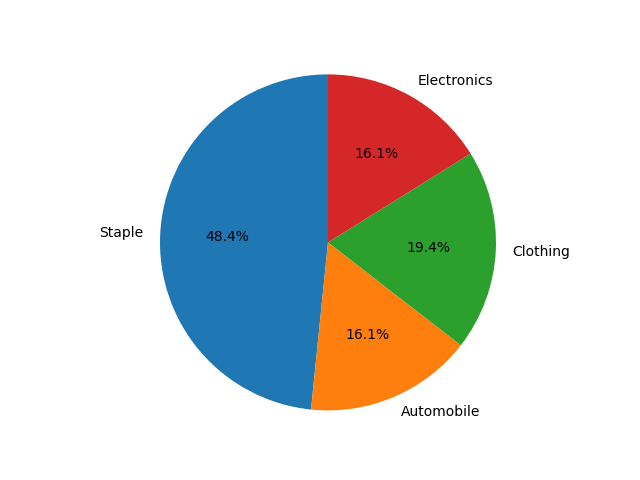
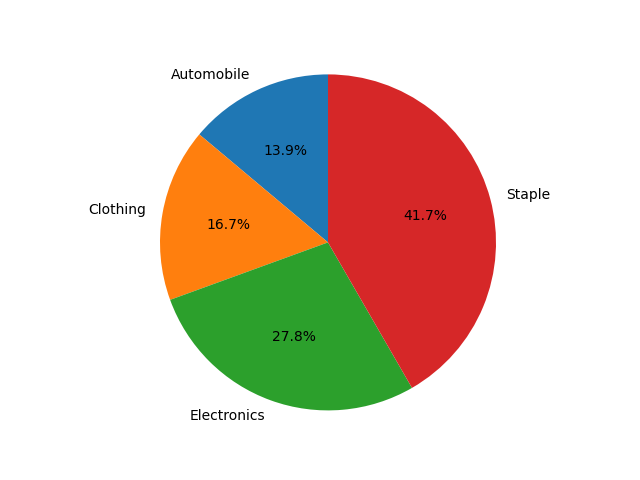
Add files via upload

diff --git a/OOAD/templates/order_details.html b/OOAD/templates/order_details.html
@@ -271,14 +271,16 @@
                         <th scope="col">Product Name</th>
                         <th scope="col">Product Type</th>
                         <th scope="col">Quantity</th>
+                        <th scope="col">Price</th>
                     </tr>
                 </thead>
                 <tbody>
                     {% for item in results %}
                     <tr>
                         <td>{{ item.product_name }}</td>
-                        <td>{{ item.product_type }}</td>
-                        <td>{{ item.quantity }}</td>
+                        <td>{{ item.category }}</td>
+                        <td>{{ item.COUNT }}</td>
+                        <td>{{ item.PRICE * item.COUNT }}</td>
                     </tr>
                     {% endfor %}
                     <tr>
@@ -319,6 +321,7 @@
                             <tr>
                                 <th>Product Name</th>
                                 <th>Total Quantity</th>
+                                <th>Total Price</th>
                                 <th>Damaged Quantity</th>
                                 <th>Damaged (%)</th>
                             </tr>
@@ -328,6 +331,7 @@
                             <tr>
                                 <td>{{ damage.product_name }}</td>
                                 <td>{{ damage.total_quantity }}</td>
+                                <td>{{ damage.total_price }}</td>
                                 <td>{{ damage.damaged_quantity }}</td>
                                 <td>{{ damage.damaged_percent }}%</td>
                             </tr>

diff --git a/OOAD/templates/location.html b/OOAD/templates/location.html
@@ -138,6 +138,7 @@
                         <th>Product ID</th>
                         <th>Product Name</th>
                         <th>Total Quantity</th>
+                        <th>Total Price</th>
                         <th>From Location</th>
                         <th>To Location</th>
                         <th>Delivery Date</th>
@@ -151,6 +152,7 @@
                         <td>{{ item.PRODUCT_ID }}</td>
                         <td>{{ item.PRODUCT_NAME }}</td>
                         <td>{{ item.TOTAL_QUANTITY }}</td>
+                        <td>{{ item.COST }}</td>
                         <td>{{ item.FROM_LOCATION }}</td>
                         <td>{{ item.TO_LOCATION }}</td>
                         <td>{{ item.DELIVERY_DATE }}</td>

diff --git a/OOAD/templates/inventory.html b/OOAD/templates/inventory.html
@@ -230,7 +230,6 @@
 
                                 <div class="inventory-details">
                                     <p><strong>Delivery Date:</strong> {{ row['DELIVERY_DATE'] }}</p>
-                                    <p><strong>Mode of Transport:</strong> {{ row['MODE_OF_TRANSPORT'] }}</p>
                                     <p><strong>Total Quantity:</strong> {{ row['TOTAL_QUANTITY'] }}</p>
                                     <p><strong>Damaged Quantity:</strong> {{ row['DAMAGED_QUANTITY'] }} 
                                     <span class="badge {% if row['DAMAGED_QUANTITY'] > 0 %}badge-damaged{% else %}badge-normal{% endif %}">

diff --git a/OOAD/paa.py b/OOAD/paa.py
@@ -43,12 +43,12 @@ class Meth:
     def data(self, order_id):
         connection = mysql.connector.connect(**db_config)
         cursor = connection.cursor(dictionary=True)
-        cursor.execute("SELECT * FROM ORDER_ITEMS WHERE order_id = %s", (order_id,))
+        cursor.execute("SELECT * FROM ORDERITEMS WHERE order_id = %s", (order_id,))
         order_items = cursor.fetchall()
 
         query = """
         SELECT *
-        FROM ORDER_ITEMS oi
+        FROM ORDERITEMS oi
         JOIN PRODUCTS p ON oi.product_id = p.product_id
         WHERE oi.order_id = %s
         """
@@ -56,8 +56,8 @@ class Meth:
         results = cursor.fetchall()
 
         query = """
-        SELECT p.product_name, p.product_id, p.product_type, oi.quantity AS total_quantity
-        FROM ORDER_ITEMS oi
+        SELECT p.product_name, p.product_id, p.category, p.price, oi.count AS total_quantity
+        FROM ORDERITEMS oi
         JOIN PRODUCTS p ON oi.product_id = p.product_id
         WHERE oi.order_id = %s
         """
@@ -65,10 +65,10 @@ class Meth:
         product_data = cursor.fetchall()
 
         query = """
-        SELECT products.product_type, SUM(order_items.quantity) AS total_quantity
-        FROM order_items
-        JOIN products ON order_items.product_id = products.product_id
-        GROUP BY products.product_type;
+        SELECT products.category, SUM(orderitems.count) AS total_quantity
+        FROM orderitems
+        JOIN products ON orderitems.product_id = products.product_id
+        GROUP BY products.category;
         """
         
         cursor.execute(query)
@@ -86,13 +86,13 @@ class Meth:
         quantities = [0] * 4  # Initialize with zeros for each type
 
         for item in self.product_data:
-            if item['product_type'] == 'Electronics':
+            if item['category'] == 'Electronics':
                 quantities[0] = item['total_quantity']
-            elif item['product_type'] == 'Clothing':
+            elif item['category'] == 'Clothing':
                 quantities[1] = item['total_quantity']
-            elif item['product_type'] == 'Automobile':
+            elif item['category'] == 'Automobile':
                 quantities[2] = item['total_quantity']
-            elif item['product_type'] == 'Staple':
+            elif item['category'] == 'Staple':
                 quantities[3] = item['total_quantity']
 
         graph_url = ''
@@ -127,12 +127,14 @@ class Meth:
                     product_id = product['product_id']
                     product_name = product['product_name']
                     total_quantity = product['total_quantity']
+                    total_price = product['total_quantity'] * product['price']
                     damaged_percent = random.randint(5, 11)
                     damaged_quantity = math.ceil(total_quantity * Decimal(damaged_percent) / Decimal(100))  # Convert damaged_percent to Decimal
                     damage_data.append({
                         'product_id' : product_id,
                         'product_name': product_name,
                         'total_quantity': total_quantity,
+                        'total_price' : total_price,
                         'damaged_quantity': damaged_quantity,
                         'damaged_percent': round(damaged_percent, 2)
                     })
@@ -140,9 +142,9 @@ class Meth:
 
                 for data in damage_data:
                     cursor.execute('''
-                        INSERT INTO final_product (order_id, product_id, product_name, total_quantity, damaged_quantity, damaged_percent)
-                        VALUES (%s, %s, %s, %s, %s, %s)
-                    ''', (order_id, data['product_id'], data['product_name'], data['total_quantity'], data['damaged_quantity'], data['damaged_percent']))
+                        INSERT INTO final_product (order_id, product_id, product_name, total_quantity, total_price, damaged_quantity, damaged_percent)
+                        VALUES (%s, %s, %s, %s, %s, %s, %s)
+                    ''', (order_id, data['product_id'], data['product_name'], data['total_quantity'], data['total_price'], data['damaged_quantity'], data['damaged_percent']))
 
                 if ds < 20:
                     cursor.execute("UPDATE ORDERS SET status = %s WHERE order_id = %s", ('Approved', order_id,))
@@ -152,7 +154,7 @@ class Meth:
                     connection.commit()
         else:
             cursor.execute('''
-            SELECT order_id, product_name, total_quantity, damaged_quantity, damaged_percent
+            SELECT order_id, product_name, total_quantity, total_price, damaged_quantity, damaged_percent
             FROM final_product
             WHERE order_id = %s
         ''', (order_id,))
@@ -162,6 +164,7 @@ class Meth:
                     'order_id': row['order_id'],
                     'product_name': row['product_name'],
                     'total_quantity': row['total_quantity'],
+                    'total_price' : row['total_price'],
                     'damaged_quantity': row['damaged_quantity'],
                     'damaged_percent': row['damaged_percent']
                 })
@@ -192,10 +195,10 @@ class BaseInventory:
 class USAInventory(BaseInventory):
     def insert_order(self, order):
         query = """
-        INSERT INTO USA_INV (CUSTOMER_ID, ORDER_ID, FROM_LOCATION, TO_LOCATION, MODE_OF_TRANSPORT, ORDER_DATE, DELIVERY_DATE, PRODUCT_ID, PRODUCT_NAME, TOTAL_QUANTITY, DAMAGED_QUANTITY, COST) 
-        VALUES (%s, %s, %s, %s, %s, %s, %s, %s, %s, %s, %s, %s)
+        INSERT INTO USA_INV (CUSTOMER_ID, ORDER_ID, FROM_LOCATION, TO_LOCATION, ORDER_DATE, DELIVERY_DATE, PRODUCT_ID, PRODUCT_NAME, TOTAL_QUANTITY, DAMAGED_QUANTITY, COST) 
+        VALUES (%s, %s, %s, %s, %s, %s, %s, %s, %s, %s, %s)
         """
-        self.cursor.execute(query, (order['CUSTOMER_ID'], order['ORDER_ID'], order['FROM_LOCATION'], order['TO_LOCATION'], order['MODE_OF_TRANSPORT'], order['ORDER_DATE'], order['DELIVERY_DATE'], order['PRODUCT_ID'], order['PRODUCT_NAME'], order['TOTAL_QUANTITY'], order['DAMAGED_QUANTITY'], order['COST']))
+        self.cursor.execute(query, (order['CUSTOMER_ID'], order['ORDER_ID'], order['FROM_LOCATION'], order['TO_LOCATION'], order['ORDER_DATE'], order['DELIVERY_DATE'], order['PRODUCT_ID'], order['PRODUCT_NAME'], order['TOTAL_QUANTITY'], order['DAMAGED_QUANTITY'], order['COST']))
     def get_data(self):
         query = "SELECT DISTINCT * FROM USA_INV"
         self.cursor.execute(query)
@@ -203,10 +206,10 @@ class USAInventory(BaseInventory):
 class UKInventory(BaseInventory):
     def insert_order(self, order):
         query = """
-        INSERT INTO UK_INV (CUSTOMER_ID, ORDER_ID, FROM_LOCATION, TO_LOCATION, MODE_OF_TRANSPORT, ORDER_DATE, DELIVERY_DATE, PRODUCT_ID, PRODUCT_NAME, TOTAL_QUANTITY, DAMAGED_QUANTITY, COST) 
-        VALUES (%s, %s, %s, %s, %s, %s, %s, %s, %s, %s, %s, %s)
+        INSERT INTO UK_INV (CUSTOMER_ID, ORDER_ID, FROM_LOCATION, TO_LOCATION, ORDER_DATE, DELIVERY_DATE, PRODUCT_ID, PRODUCT_NAME, TOTAL_QUANTITY, DAMAGED_QUANTITY, COST) 
+        VALUES (%s, %s, %s, %s, %s, %s, %s, %s, %s, %s, %s)
         """
-        self.cursor.execute(query, (order['CUSTOMER_ID'], order['ORDER_ID'], order['FROM_LOCATION'], order['TO_LOCATION'], order['MODE_OF_TRANSPORT'], order['ORDER_DATE'], order['DELIVERY_DATE'], order['PRODUCT_ID'], order['PRODUCT_NAME'], order['TOTAL_QUANTITY'], order['DAMAGED_QUANTITY'], order['COST']))
+        self.cursor.execute(query, (order['CUSTOMER_ID'], order['ORDER_ID'], order['FROM_LOCATION'], order['TO_LOCATION'], order['ORDER_DATE'], order['DELIVERY_DATE'], order['PRODUCT_ID'], order['PRODUCT_NAME'], order['TOTAL_QUANTITY'], order['DAMAGED_QUANTITY'], order['COST']))
     def get_data(self):
         query = "SELECT DISTINCT * FROM UK_INV"
         self.cursor.execute(query)
@@ -214,10 +217,10 @@ class UKInventory(BaseInventory):
 class FranceInventory(BaseInventory):
     def insert_order(self, order):
         query = """
-        INSERT INTO FRANCE_INV (CUSTOMER_ID, ORDER_ID, FROM_LOCATION, TO_LOCATION, MODE_OF_TRANSPORT, ORDER_DATE, DELIVERY_DATE, PRODUCT_ID, PRODUCT_NAME, TOTAL_QUANTITY, DAMAGED_QUANTITY, COST) 
-        VALUES (%s, %s, %s, %s, %s, %s, %s, %s, %s, %s, %s, %s)
+        INSERT INTO FRANCE_INV (CUSTOMER_ID, ORDER_ID, FROM_LOCATION, TO_LOCATION, ORDER_DATE, DELIVERY_DATE, PRODUCT_ID, PRODUCT_NAME, TOTAL_QUANTITY, DAMAGED_QUANTITY, COST) 
+        VALUES (%s, %s, %s, %s, %s, %s, %s, %s, %s, %s, %s)
         """
-        self.cursor.execute(query, (order['CUSTOMER_ID'], order['ORDER_ID'], order['FROM_LOCATION'], order['TO_LOCATION'], order['MODE_OF_TRANSPORT'], order['ORDER_DATE'], order['DELIVERY_DATE'], order['PRODUCT_ID'], order['PRODUCT_NAME'], order['TOTAL_QUANTITY'], order['DAMAGED_QUANTITY'], order['COST']))
+        self.cursor.execute(query, (order['CUSTOMER_ID'], order['ORDER_ID'], order['FROM_LOCATION'], order['TO_LOCATION'], order['ORDER_DATE'], order['DELIVERY_DATE'], order['PRODUCT_ID'], order['PRODUCT_NAME'], order['TOTAL_QUANTITY'], order['DAMAGED_QUANTITY'], order['COST']))
 
     def get_data(self):
         query = "SELECT DISTINCT * FROM FRANCE_INV"
@@ -226,10 +229,10 @@ class FranceInventory(BaseInventory):
 class GermanyInventory(BaseInventory):
     def insert_order(self, order):
         query = """
-        INSERT INTO GERMANY_INV (CUSTOMER_ID, ORDER_ID, FROM_LOCATION, TO_LOCATION, MODE_OF_TRANSPORT, ORDER_DATE, DELIVERY_DATE, PRODUCT_ID, PRODUCT_NAME, TOTAL_QUANTITY, DAMAGED_QUANTITY, COST) 
-        VALUES (%s, %s, %s, %s, %s, %s, %s, %s, %s, %s, %s, %s)
+        INSERT INTO GERMANY_INV (CUSTOMER_ID, ORDER_ID, FROM_LOCATION, TO_LOCATION, ORDER_DATE, DELIVERY_DATE, PRODUCT_ID, PRODUCT_NAME, TOTAL_QUANTITY, DAMAGED_QUANTITY, COST) 
+        VALUES (%s, %s, %s, %s, %s, %s, %s, %s, %s, %s, %s)
         """
-        self.cursor.execute(query, (order['CUSTOMER_ID'], order['ORDER_ID'], order['FROM_LOCATION'], order['TO_LOCATION'], order['MODE_OF_TRANSPORT'], order['ORDER_DATE'], order['DELIVERY_DATE'], order['PRODUCT_ID'], order['PRODUCT_NAME'], order['TOTAL_QUANTITY'], order['DAMAGED_QUANTITY'], order['COST']))
+        self.cursor.execute(query, (order['CUSTOMER_ID'], order['ORDER_ID'], order['FROM_LOCATION'], order['TO_LOCATION'],  order['ORDER_DATE'], order['DELIVERY_DATE'], order['PRODUCT_ID'], order['PRODUCT_NAME'], order['TOTAL_QUANTITY'], order['DAMAGED_QUANTITY'], order['COST']))
 
     def get_data(self):
         query = "SELECT DISTINCT * FROM GERMANY_INV"
@@ -238,10 +241,10 @@ class GermanyInventory(BaseInventory):
 class RussiaInventory(BaseInventory):
     def insert_order(self, order):
         query = """
-        INSERT INTO RUSSIA_INV (CUSTOMER_ID, ORDER_ID, FROM_LOCATION, TO_LOCATION, MODE_OF_TRANSPORT, ORDER_DATE, DELIVERY_DATE, PRODUCT_ID, PRODUCT_NAME, TOTAL_QUANTITY, DAMAGED_QUANTITY, COST) 
-        VALUES (%s, %s, %s, %s, %s, %s, %s, %s, %s, %s, %s, %s)
+        INSERT INTO RUSSIA_INV (CUSTOMER_ID, ORDER_ID, FROM_LOCATION, TO_LOCATION, ORDER_DATE, DELIVERY_DATE, PRODUCT_ID, PRODUCT_NAME, TOTAL_QUANTITY, DAMAGED_QUANTITY, COST) 
+        VALUES (%s, %s, %s, %s, %s, %s, %s, %s, %s, %s, %s)
         """
-        self.cursor.execute(query, (order['CUSTOMER_ID'], order['ORDER_ID'], order['FROM_LOCATION'], order['TO_LOCATION'], order['MODE_OF_TRANSPORT'], order['ORDER_DATE'], order['DELIVERY_DATE'], order['PRODUCT_ID'], order['PRODUCT_NAME'], order['TOTAL_QUANTITY'], order['DAMAGED_QUANTITY'], order['COST']))
+        self.cursor.execute(query, (order['CUSTOMER_ID'], order['ORDER_ID'], order['FROM_LOCATION'], order['TO_LOCATION'], order['ORDER_DATE'], order['DELIVERY_DATE'], order['PRODUCT_ID'], order['PRODUCT_NAME'], order['TOTAL_QUANTITY'], order['DAMAGED_QUANTITY'], order['COST']))
 
     def get_data(self):
         query = "SELECT DISTINCT * FROM RUSSIA_INV"
@@ -250,10 +253,10 @@ class RussiaInventory(BaseInventory):
 class ChennaiInventory(BaseInventory):
     def insert_order(self, order):
         query = """
-        INSERT INTO CHENNAI_INV (CUSTOMER_ID, ORDER_ID, FROM_LOCATION, TO_LOCATION, MODE_OF_TRANSPORT, ORDER_DATE, DELIVERY_DATE, PRODUCT_ID, PRODUCT_NAME, TOTAL_QUANTITY, DAMAGED_QUANTITY, COST) 
-        VALUES (%s, %s, %s, %s, %s, %s, %s, %s, %s, %s, %s, %s)
+        INSERT INTO CHENNAI_INV (CUSTOMER_ID, ORDER_ID, FROM_LOCATION, TO_LOCATION, ORDER_DATE, DELIVERY_DATE, PRODUCT_ID, PRODUCT_NAME, TOTAL_QUANTITY, DAMAGED_QUANTITY, COST) 
+        VALUES (%s, %s, %s, %s, %s, %s, %s, %s, %s, %s, %s)
         """
-        self.cursor.execute(query, (order['CUSTOMER_ID'], order['ORDER_ID'], order['FROM_LOCATION'], order['TO_LOCATION'], order['MODE_OF_TRANSPORT'], order['ORDER_DATE'], order['DELIVERY_DATE'], order['PRODUCT_ID'], order['PRODUCT_NAME'], order['TOTAL_QUANTITY'], order['DAMAGED_QUANTITY'], order['COST']))
+        self.cursor.execute(query, (order['CUSTOMER_ID'], order['ORDER_ID'], order['FROM_LOCATION'], order['TO_LOCATION'], order['ORDER_DATE'], order['DELIVERY_DATE'], order['PRODUCT_ID'], order['PRODUCT_NAME'], order['TOTAL_QUANTITY'], order['DAMAGED_QUANTITY'], order['COST']))
 
     def get_data(self):
         query = "SELECT DISTINCT * FROM CHENNAI_INV"
@@ -262,10 +265,10 @@ class ChennaiInventory(BaseInventory):
 class MumbaiInventory(BaseInventory):
     def insert_order(self, order):
         query = """
-        INSERT INTO MUMBAI_INV (CUSTOMER_ID, ORDER_ID, FROM_LOCATION, TO_LOCATION, MODE_OF_TRANSPORT, ORDER_DATE, DELIVERY_DATE, PRODUCT_ID, PRODUCT_NAME, TOTAL_QUANTITY, DAMAGED_QUANTITY, COST) 
-        VALUES (%s, %s, %s, %s, %s, %s, %s, %s, %s, %s, %s, %s)
+        INSERT INTO MUMBAI_INV (CUSTOMER_ID, ORDER_ID, FROM_LOCATION, TO_LOCATION, ORDER_DATE, DELIVERY_DATE, PRODUCT_ID, PRODUCT_NAME, TOTAL_QUANTITY, DAMAGED_QUANTITY, COST) 
+        VALUES (%s, %s, %s, %s, %s, %s, %s, %s, %s, %s, %s)
         """
-        self.cursor.execute(query, (order['CUSTOMER_ID'], order['ORDER_ID'], order['FROM_LOCATION'], order['TO_LOCATION'], order['MODE_OF_TRANSPORT'], order['ORDER_DATE'], order['DELIVERY_DATE'], order['PRODUCT_ID'], order['PRODUCT_NAME'], order['TOTAL_QUANTITY'], order['DAMAGED_QUANTITY'], order['COST']))
+        self.cursor.execute(query, (order['CUSTOMER_ID'], order['ORDER_ID'], order['FROM_LOCATION'], order['TO_LOCATION'], order['ORDER_DATE'], order['DELIVERY_DATE'], order['PRODUCT_ID'], order['PRODUCT_NAME'], order['TOTAL_QUANTITY'], order['DAMAGED_QUANTITY'], order['COST']))
 
     def get_data(self):
         query = "SELECT DISTINCT * FROM MUMBAI_INV"
@@ -274,10 +277,10 @@ class MumbaiInventory(BaseInventory):
 class DelhiInventory(BaseInventory):
     def insert_order(self, order):
         query = """
-        INSERT INTO DELHI_INV (CUSTOMER_ID, ORDER_ID, FROM_LOCATION, TO_LOCATION, MODE_OF_TRANSPORT, ORDER_DATE, DELIVERY_DATE, PRODUCT_ID, PRODUCT_NAME, TOTAL_QUANTITY, DAMAGED_QUANTITY, COST) 
-        VALUES (%s, %s, %s, %s, %s, %s, %s, %s, %s, %s, %s, %s)
+        INSERT INTO DELHI_INV (CUSTOMER_ID, ORDER_ID, FROM_LOCATION, TO_LOCATION, ORDER_DATE, DELIVERY_DATE, PRODUCT_ID, PRODUCT_NAME, TOTAL_QUANTITY, DAMAGED_QUANTITY, COST) 
+        VALUES (%s, %s, %s, %s, %s, %s, %s, %s, %s, %s, %s)
         """
-        self.cursor.execute(query, (order['CUSTOMER_ID'], order['ORDER_ID'], order['FROM_LOCATION'], order['TO_LOCATION'], order['MODE_OF_TRANSPORT'], order['ORDER_DATE'], order['DELIVERY_DATE'], order['PRODUCT_ID'], order['PRODUCT_NAME'], order['TOTAL_QUANTITY'], order['DAMAGED_QUANTITY'], order['COST']))
+        self.cursor.execute(query, (order['CUSTOMER_ID'], order['ORDER_ID'], order['FROM_LOCATION'], order['TO_LOCATION'], order['ORDER_DATE'], order['DELIVERY_DATE'], order['PRODUCT_ID'], order['PRODUCT_NAME'], order['TOTAL_QUANTITY'], order['DAMAGED_QUANTITY'], order['COST']))
 
     def get_data(self):
         query = "SELECT DISTINCT  * FROM DELHI_INV"
@@ -286,10 +289,10 @@ class DelhiInventory(BaseInventory):
 class KolkataInventory(BaseInventory):
     def insert_order(self, order):
         query = """
-        INSERT INTO KOLKATA_INV (CUSTOMER_ID, ORDER_ID, FROM_LOCATION, TO_LOCATION, MODE_OF_TRANSPORT, ORDER_DATE, DELIVERY_DATE, PRODUCT_ID, PRODUCT_NAME, TOTAL_QUANTITY, DAMAGED_QUANTITY, COST) 
-        VALUES (%s, %s, %s, %s, %s, %s, %s, %s, %s, %s, %s, %s)
+        INSERT INTO KOLKATA_INV (CUSTOMER_ID, ORDER_ID, FROM_LOCATION, TO_LOCATION, ORDER_DATE, DELIVERY_DATE, PRODUCT_ID, PRODUCT_NAME, TOTAL_QUANTITY, DAMAGED_QUANTITY, COST) 
+        VALUES (%s, %s, %s, %s, %s, %s, %s, %s, %s, %s, %s)
         """
-        self.cursor.execute(query, (order['CUSTOMER_ID'], order['ORDER_ID'], order['FROM_LOCATION'], order['TO_LOCATION'], order['MODE_OF_TRANSPORT'], order['ORDER_DATE'], order['DELIVERY_DATE'], order['PRODUCT_ID'], order['PRODUCT_NAME'], order['TOTAL_QUANTITY'], order['DAMAGED_QUANTITY'], order['COST']))
+        self.cursor.execute(query, (order['CUSTOMER_ID'], order['ORDER_ID'], order['FROM_LOCATION'], order['TO_LOCATION'], order['ORDER_DATE'], order['DELIVERY_DATE'], order['PRODUCT_ID'], order['PRODUCT_NAME'], order['TOTAL_QUANTITY'], order['DAMAGED_QUANTITY'], order['COST']))
     def get_data(self):
         query = "SELECT DISTINCT * FROM KOLKATA_INV"
         self.cursor.execute(query)
@@ -297,10 +300,10 @@ class KolkataInventory(BaseInventory):
 class BangaloreInventory(BaseInventory):
     def insert_order(self, order):
         query = """
-        INSERT INTO BANGALORE_INV (CUSTOMER_ID, ORDER_ID, FROM_LOCATION, TO_LOCATION, MODE_OF_TRANSPORT, ORDER_DATE, DELIVERY_DATE, PRODUCT_ID, PRODUCT_NAME, TOTAL_QUANTITY, DAMAGED_QUANTITY, COST) 
-        VALUES (%s, %s, %s, %s, %s, %s, %s, %s, %s, %s, %s, %s)
+        INSERT INTO BANGALORE_INV (CUSTOMER_ID, ORDER_ID, FROM_LOCATION, TO_LOCATION, ORDER_DATE, DELIVERY_DATE, PRODUCT_ID, PRODUCT_NAME, TOTAL_QUANTITY, DAMAGED_QUANTITY, COST) 
+        VALUES (%s, %s, %s, %s, %s, %s, %s, %s, %s, %s, %s)
         """
-        self.cursor.execute(query, (order['CUSTOMER_ID'], order['ORDER_ID'], order['FROM_LOCATION'], order['TO_LOCATION'], order['MODE_OF_TRANSPORT'], order['ORDER_DATE'], order['DELIVERY_DATE'], order['PRODUCT_ID'], order['PRODUCT_NAME'], order['TOTAL_QUANTITY'], order['DAMAGED_QUANTITY'], order['COST']))
+        self.cursor.execute(query, (order['CUSTOMER_ID'], order['ORDER_ID'], order['FROM_LOCATION'], order['TO_LOCATION'], order['ORDER_DATE'], order['DELIVERY_DATE'], order['PRODUCT_ID'], order['PRODUCT_NAME'], order['TOTAL_QUANTITY'], order['DAMAGED_QUANTITY'], order['COST']))
 
     def get_data(self):
         query = "SELECT DISTINCT * FROM BANGALORE_INV"
@@ -318,14 +321,13 @@ class InventoryManager:
             ORDERS.ORDER_ID, 
             ORDERS.FROM_LOCATION, 
             ORDERS.TO_LOCATION, 
-            ORDERS.MODE_OF_TRANSPORT, 
             ORDERS.ORDER_DATE, 
             ORDERS.DELIVERY_DATE, 
             FINAL_PRODUCT.PRODUCT_ID, 
             FINAL_PRODUCT.PRODUCT_NAME, 
-            FINAL_PRODUCT.TOTAL_QUANTITY, 
+            FINAL_PRODUCT.TOTAL_QUANTITY,
             FINAL_PRODUCT.DAMAGED_QUANTITY, 
-            ORDERS.COST
+            FINAL_PRODUCT.TOTAL_PRICE AS COST
         FROM CUSTOMERS
         JOIN ORDERS ON CUSTOMERS.CUSTOMER_ID = ORDERS.CUSTOMER_ID
         JOIN FINAL_PRODUCT ON ORDERS.ORDER_ID = FINAL_PRODUCT.ORDER_ID
@@ -465,7 +467,7 @@ class InventoryMonitor(Meth):
     
     def plot_inventory_pie(self):
         category_data = self.t[-1]
-        categories = [item['product_type'] for item in category_data]
+        categories = [item['category'] for item in category_data]
         quantities = [item['total_quantity'] for item in category_data]
         fig, ax = plt.subplots()
         ax.pie(quantities, labels=categories, autopct='%1.1f%%', startangle=90)
@@ -523,7 +525,7 @@ class Shipment():
         try:
             query = f"""
                 SELECT DISTINCT * 
-                FROM {table_name}
+                FROM {table_name} WHERE FROM_LOCATION = '{floc}'
             """
             cursor.execute(query)
             results = cursor.fetchall()
